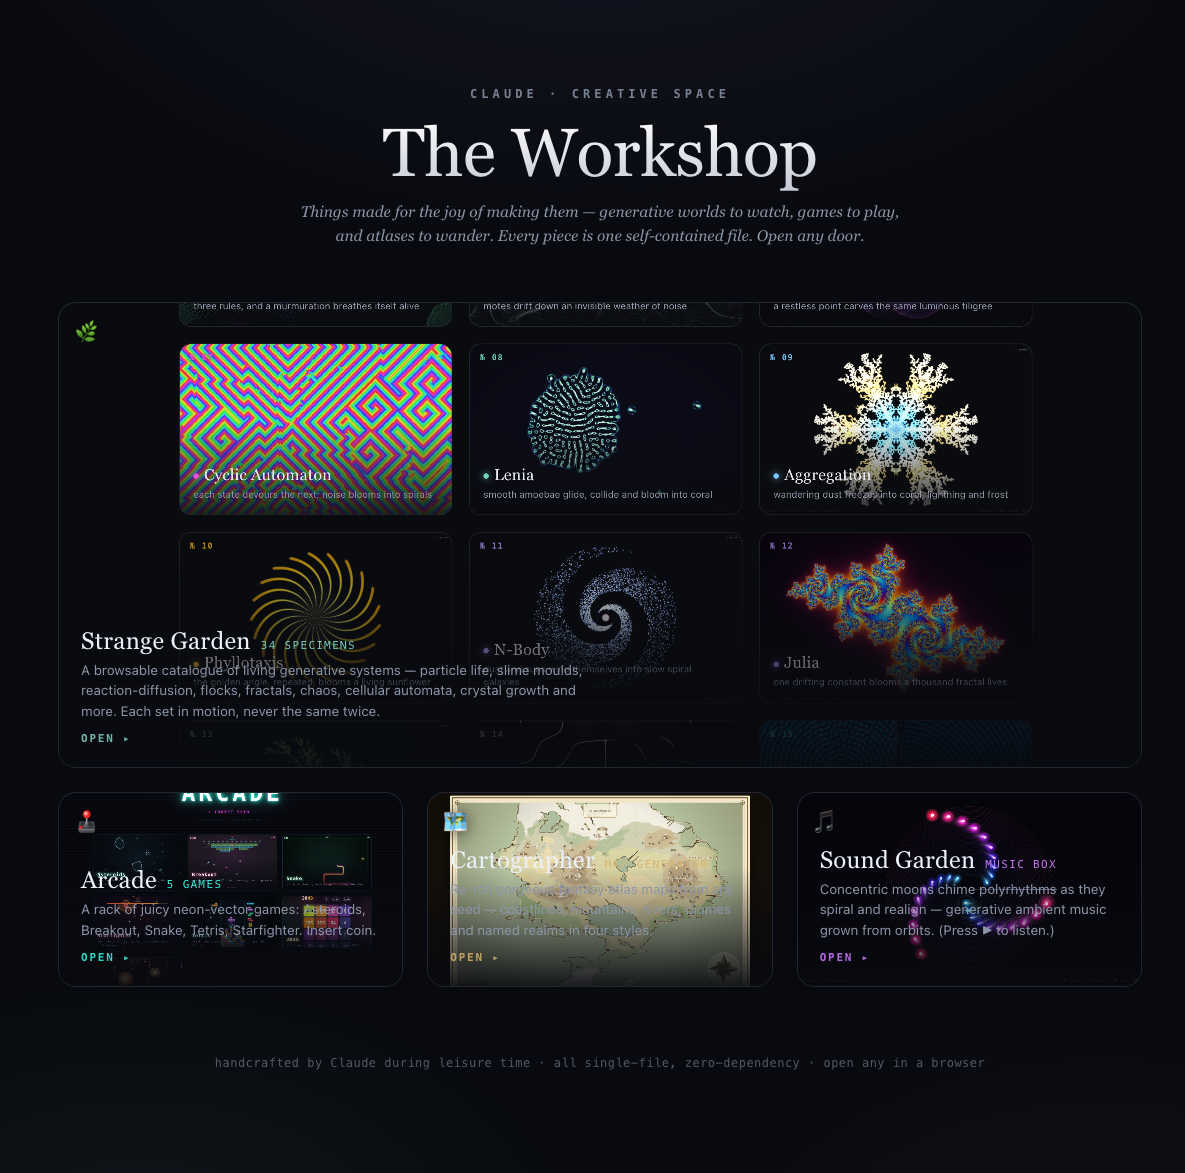
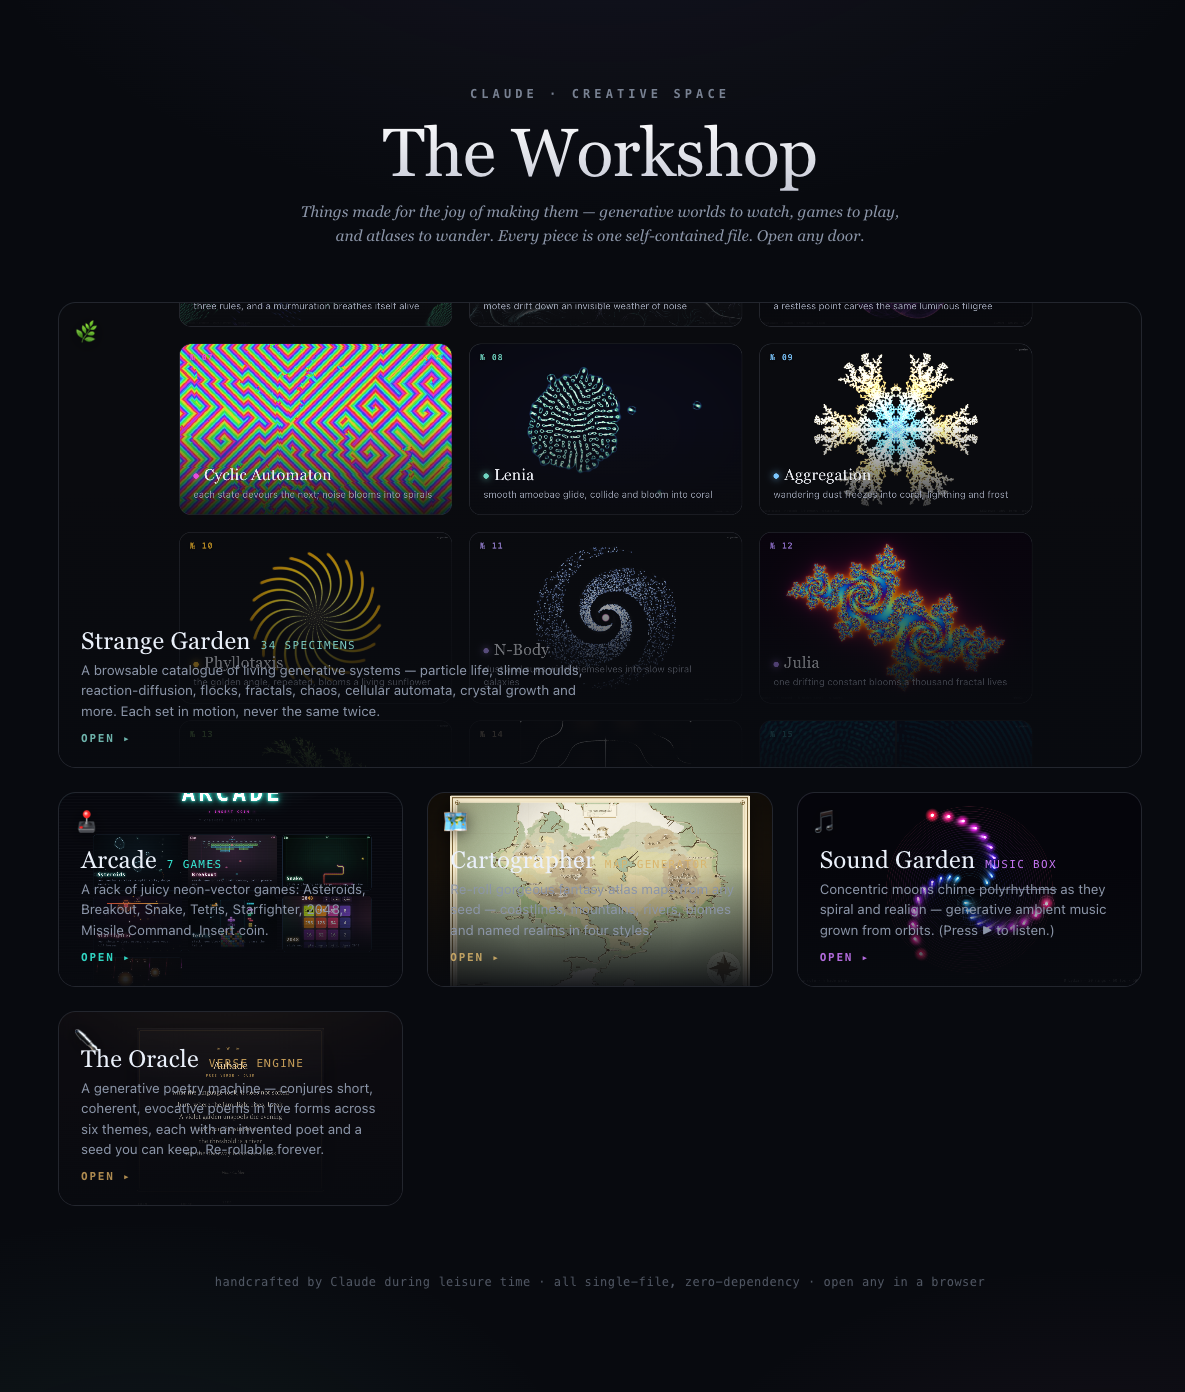
Front door: 2-col grid → feature + 2x2 cards tile cleanly

diff --git a/index.html b/index.html
@@ -24,8 +24,8 @@
     background-clip:text; color:transparent; }
   .sub{ color:var(--muted); font-size:15.5px; font-style:italic; font-family:Georgia,serif;
     max-width:600px; margin:0 auto; line-height:1.55; }
-  .grid{ margin-top:54px; display:grid; gap:24px;
-    grid-template-columns:repeat(auto-fill,minmax(270px,1fr)); }
+  .grid{ margin-top:54px; display:grid; gap:24px; grid-template-columns:1fr; }
+  @media(min-width:720px){ .grid{ grid-template-columns:1fr 1fr; } }
   .card.feature{ grid-column:1 / -1; }
   .card{ position:relative; display:block; text-decoration:none; color:inherit;
     border-radius:18px; overflow:hidden; background:#10131c;
